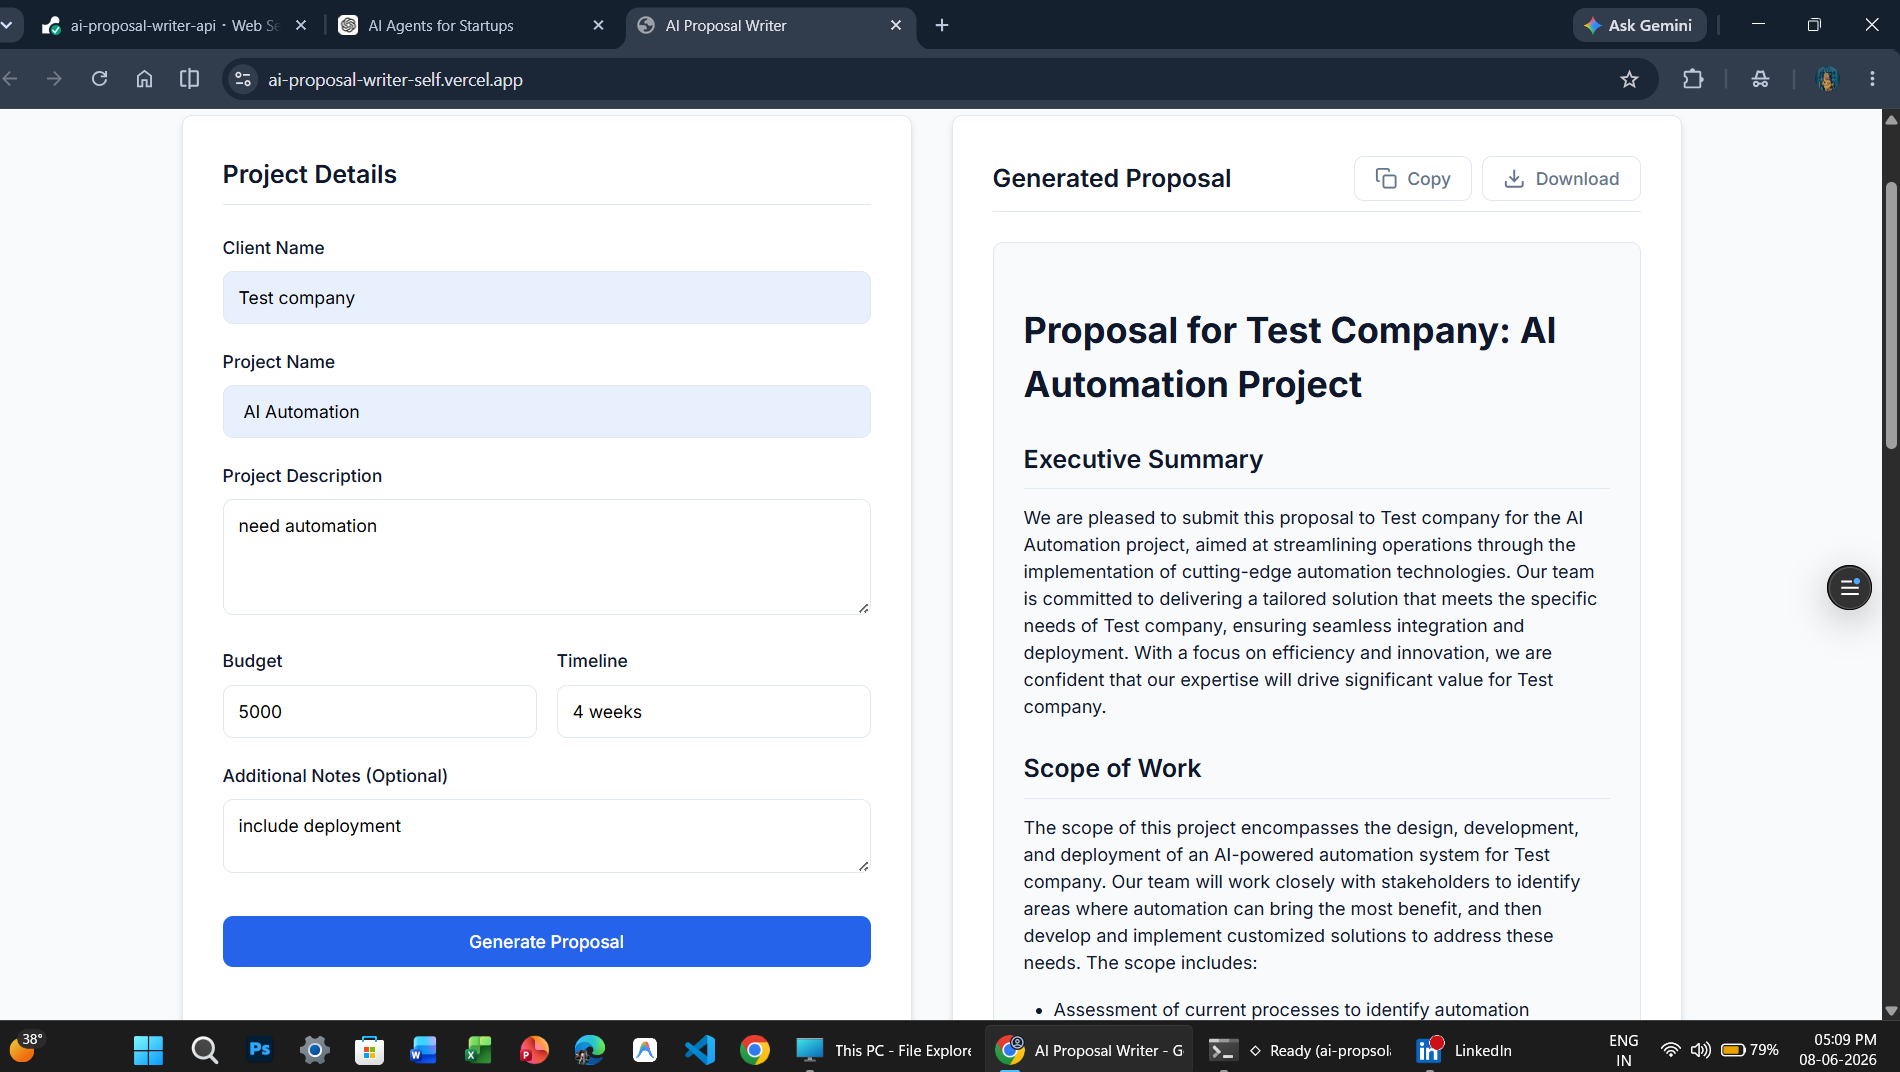
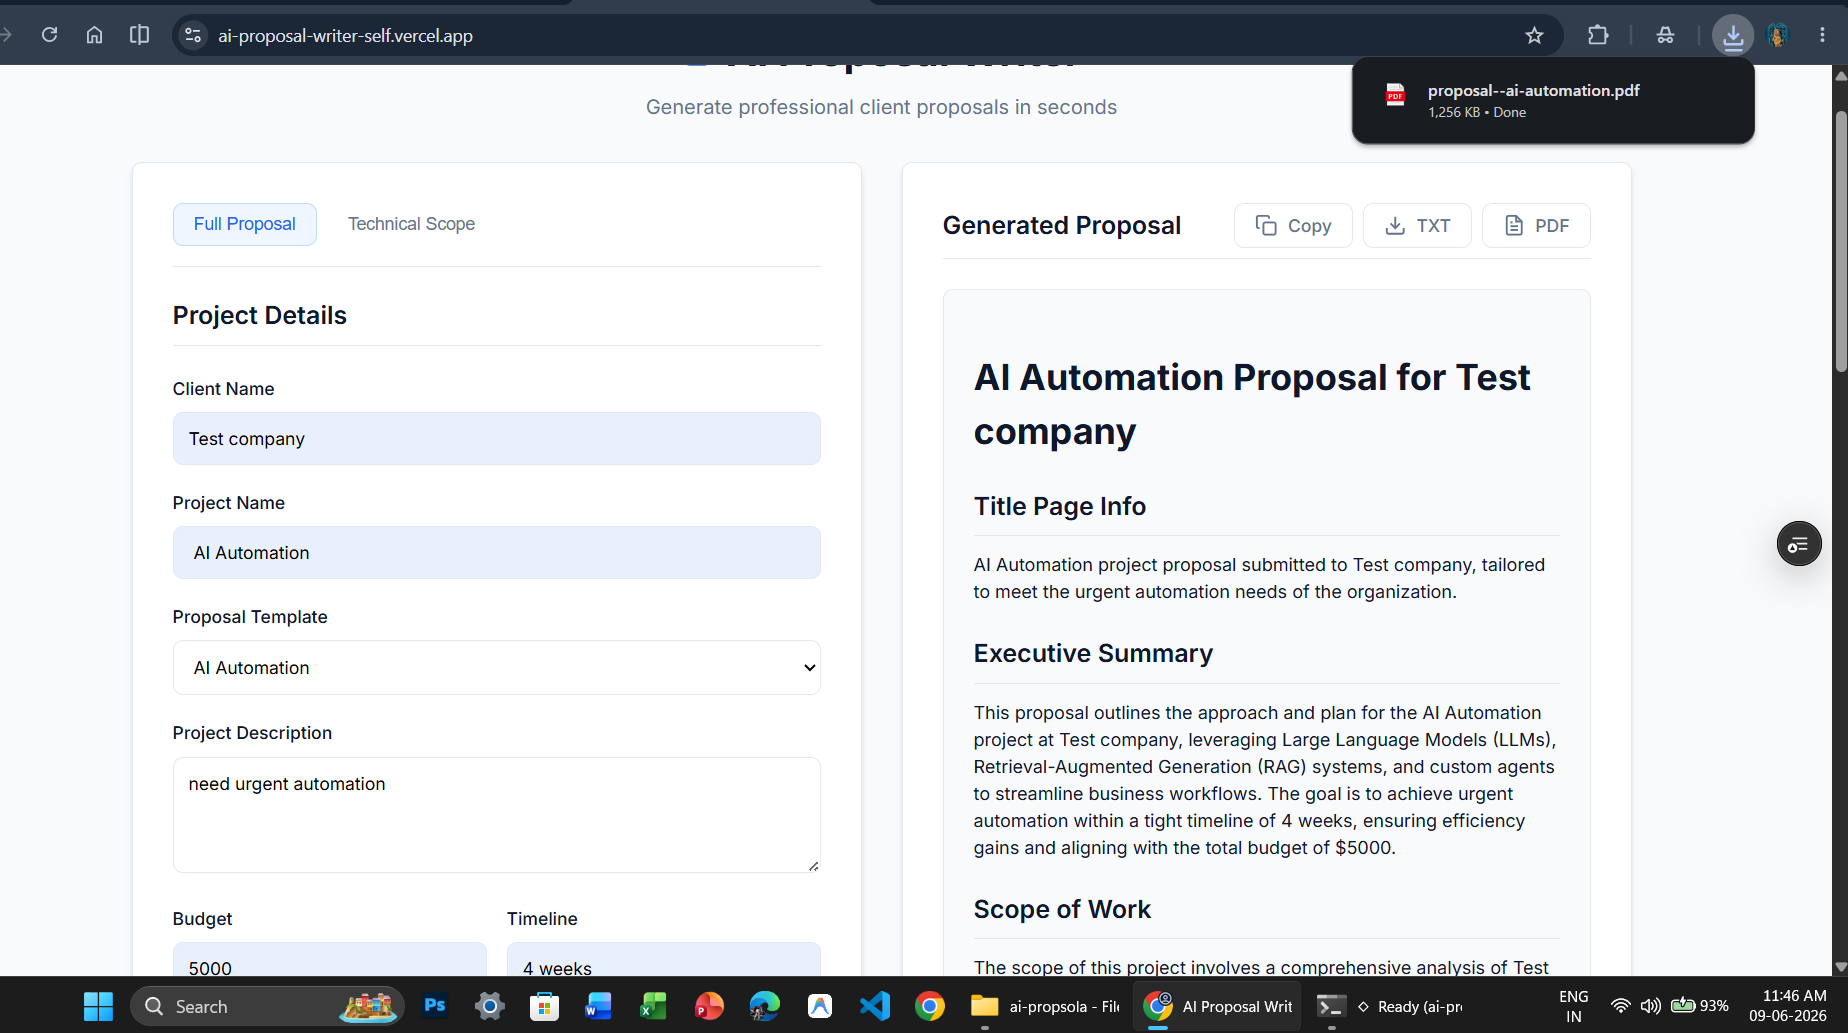
Add application screenshots to README

diff --git a/frontend/index.html b/frontend/index.html
@@ -106,7 +106,20 @@
                 <div id="empty-state" class="empty-state">
                     <p>Fill out the form and click generate to see your proposal here.</p>
                 </div>
-                <div id="proposal-output" class="proposal-output hidden"></div>
+                <div id="editor-container" class="editor-container hidden">
+                    <div class="editor-toolbar">
+                        <button type="button" class="toolbar-btn" data-action="heading1" title="Heading 1">H1</button>
+                        <button type="button" class="toolbar-btn" data-action="heading2" title="Heading 2">H2</button>
+                        <button type="button" class="toolbar-btn" data-action="bold" title="Bold"><strong>B</strong></button>
+                        <button type="button" class="toolbar-btn" data-action="italic" title="Italic"><em>I</em></button>
+                        <button type="button" class="toolbar-btn" data-action="bulletList" title="Bullet List">• List</button>
+                        <button type="button" class="toolbar-btn" data-action="orderedList" title="Ordered List">1. List</button>
+                        <button type="button" class="toolbar-btn" data-action="table" title="Insert Table">
+                            <svg width="16" height="16" viewBox="0 0 24 24" fill="none" stroke="currentColor" stroke-width="2"><rect x="3" y="3" width="18" height="18" rx="2" ry="2"></rect><line x1="3" y1="9" x2="21" y2="9"></line><line x1="3" y1="15" x2="21" y2="15"></line><line x1="9" y1="3" x2="9" y2="21"></line><line x1="15" y1="3" x2="15" y2="21"></line></svg>
+                        </button>
+                    </div>
+                    <div id="proposal-output" class="proposal-output"></div>
+                </div>
             </div>
         </section>
     </main>

diff --git a/README.md b/README.md
@@ -21,7 +21,7 @@ Writing professional client proposals is tedious, time-consuming, and often dela
 *(Placeholder for Screenshots)*
 - **Dashboard & Form:** `![Dashboard](assets/homepage.png)`
 - **Generated Output:** `![Output](assets/proposal.png)`
-- **PDF Export Example:** `![PDF Export](assets/pdf-example.gif)`
+- **PDF Export Example:** `![PDF Export](assets/pdf.png)`
 
 ## Live Demo
 